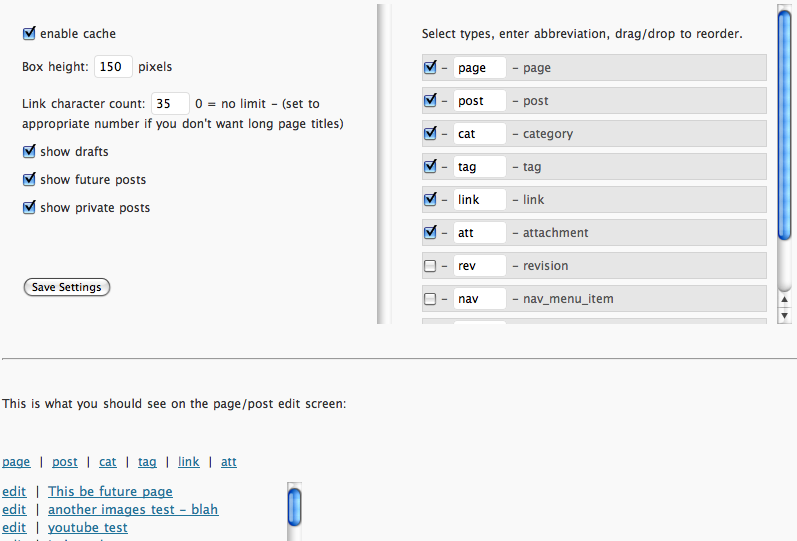
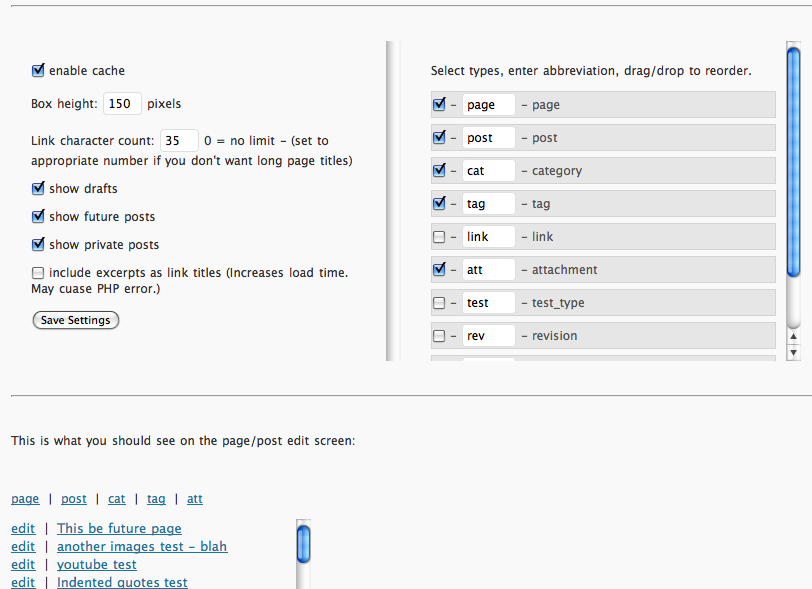
1.1 trunk upgrade. added excerpt checkbox
git-svn-id: https://plugins.svn.wordpress.org/kalins-easy-edit-links/trunk@343887 b8457f37-d9ea-0310-8a92-e5e31aec5664

diff --git a/kalinsLinks_custom_box.php b/kalinsLinks_custom_box.php
@@ -5,34 +5,13 @@ if ( !function_exists( 'add_action' ) ) {
 	exit;
 }
 
-/*function my_excerpt($text, $excerpt){
-	
-    if ($excerpt) return $excerpt;
-	
-	$raw_excerpt = $text;
-    
-	$text = strip_shortcodes( $text );
+$adminOptions = kalinsLinks_get_admin_options();//for individual pages/posts we grab all the PDF options from the options page instead of the POST
 
-    $text = apply_filters('the_content', $text);
-    $text = str_replace(']]>', ']]&gt;', $text);
-    $text = strip_tags($text);
-    $excerpt_length = apply_filters('excerpt_length', 55);
-    $excerpt_more = apply_filters('excerpt_more', ' ' . '[...]');
-    $words = preg_split("/[\n\r\t ]+/", $text, $excerpt_length + 1, PREG_SPLIT_NO_EMPTY);
-    if ( count($words) > $excerpt_length ) {
-    	array_pop($words);
-        $text = implode(' ', $words);
-        $text = $text . $excerpt_more;
-    } else {
-        $text = implode(' ', $words);
-    }
-
-    return apply_filters('wp_trim_excerpt', $text, $raw_excerpt);
-}*/
-
-function my_excerpt($text, $excerpt){
+function my_excerpt($text, $excerpt, $include){
 	
-	return "";
+	if($include == "false"){
+		return "";
+	}
 	
 	if($excerpt){
 		return $excerpt;
@@ -47,7 +26,7 @@ function my_excerpt($text, $excerpt){
 	}
 }
 
-$adminOptions = kalinsLinks_get_admin_options();//for individual pages/posts we grab all the PDF options from the options page instead of the POST
+
 		
 //$titlePage = $adminOptions["titlePage"];
 //$finalPage = $adminOptions["finalPage"];
@@ -176,7 +155,6 @@ $beginOutput =   '<style type="text/css">
 			
 			case "attachment" :
 				$pageList = get_posts('numberposts=-1&post_type=' .$typeName);
-				
 				$le = count($pageList);
 				for($j=0; $j<$le; $j++){//build our list of pages with checkboxes
 					$pageID = $pageList[$j]->ID;
@@ -189,7 +167,7 @@ $beginOutput =   '<style type="text/css">
 				$le = count($pageList);
 				for($j=0; $j<$le; $j++){//build our list of pages with checkboxes
 					$pageID = $pageList[$j]->ID;
-					$output = $output .'<a href="' .$wpurl .'/wp-admin/post.php?post=' .$pageID .'&action=edit">edit</a>&nbsp;&nbsp;|&nbsp;&nbsp;<a href=" ' .get_permalink( $pageID ) .'" title="' .my_excerpt($pageList[$j]->post_content , $pageList[$j]->post_excerpt).'">' .substr($pageList[$j]->post_title, 0, $charLength) .'</a><br />';
+					$output = $output .'<a href="' .$wpurl .'/wp-admin/post.php?post=' .$pageID .'&action=edit">edit</a>&nbsp;&nbsp;|&nbsp;&nbsp;<a href=" ' .get_permalink( $pageID ) .'" title="' .my_excerpt($pageList[$j]->post_content , $pageList[$j]->post_excerpt, $adminOptions["includeExcerpt"]).'">' .substr($pageList[$j]->post_title, 0, $charLength) .'</a><br />';
 				}
 				break;
 		}

diff --git a/kalins-easy-edit-links.php b/kalins-easy-edit-links.php
@@ -1,7 +1,7 @@
 <?php
 /*
 Plugin Name: Kalin's Easy Edit Links
-Version: 1.0
+Version: 1.1
 Plugin URI: http://kalinbooks.com/easy-edit-links/
 Description: Adds a box to your page/post edit screen with links and edit buttons for all pages, posts, tags, categories, and links for convenient linking.
 Author: Kalin Ringkvist
@@ -70,6 +70,8 @@ function kalinsLinks_save(){
 	$kalinsLinksAdminOptions['includeFuture'] = $_POST['includeFuture'];
 	$kalinsLinksAdminOptions['includePrivate'] = $_POST['includePrivate'];
 	
+	$kalinsLinksAdminOptions['includeExcerpt'] = $_POST['includeExcerpt'];
+	
 	$kalinsLinksAdminOptions['typeArr'] = $_POST['typeArr'];
 	
 	$kalinsLinksAdminOptions['cache'] = 'none';
@@ -132,6 +134,7 @@ function kalinsLinks_getAdminSettings(){//simply returns all our default option 
 	$kalinsLinksAdminOptions['includeDrafts'] = 'true';//JavSscript and HTML are so convoluted and silly compared to Flash ActionScript. I mean, using 'on' and 'off' instead of true and false... seriously?
 	$kalinsLinksAdminOptions['includeFuture'] = 'true';
 	$kalinsLinksAdminOptions['includePrivate'] = 'true';
+	$kalinsLinksAdminOptions['includeExcerpt'] = 'false';
 	
 	$kalinsLinksAdminOptions['typeArr'] = '[{"typeName":"page","enabled":true,"abbr":"page"},{"typeName":"post","enabled":true,"abbr":"post"},{"typeName":"category","enabled":true,"abbr":"cat"},{"typeName":"tag","enabled":true,"abbr":"tag"},{"typeName":"link","enabled":true,"abbr":"link"},{"typeName":"attachment","enabled":true,"abbr":"att"},{"typeName":"revision","enabled":false,"abbr":"rev"},{"typeName":"nav_menu_item","enabled":false,"abbr":"nav"}]';
 	

diff --git a/kalinsLinks_admin_page.php b/kalinsLinks_admin_page.php
@@ -48,6 +48,7 @@
 			data.includeFuture = $("#chkIncludeFuture").is(':checked');
 			data.includePrivate = $("#chkIncludePrivate").is(':checked');
 			data.enableCache = $("#chkEnableCache").is(':checked');
+			data.includeExcerpt = $("#chkIncludeExcerpt").is(':checked');
 			
 			var sortArr = $("#sortable").sortable('toArray');
 			
@@ -139,7 +140,7 @@
 <p><input type="checkbox" id="chkIncludeDrafts" <?php if($adminOptions["includeDrafts"] == 'true'){echo "checked='yes'";} ?> /> show drafts</p>
 <p><input type="checkbox" id="chkIncludeFuture" <?php if($adminOptions["includeFuture"] == 'true'){echo "checked='yes'";} ?> /> show future posts</p>
 <p><input type="checkbox" id="chkIncludePrivate" <?php if($adminOptions["includePrivate"] == 'true'){echo "checked='yes'";} ?> /> show private posts</p>
-<br/><br/>
+<p><input type="checkbox" id="chkIncludeExcerpt" <?php if($adminOptions["includeExcerpt"] == 'true'){echo "checked='yes'";} ?> /> include excerpts as link titles (Increases load time. May cuase PHP error.)</p>
 <p><button id="btnSave">Save Settings</button></p>
 
 </div>
